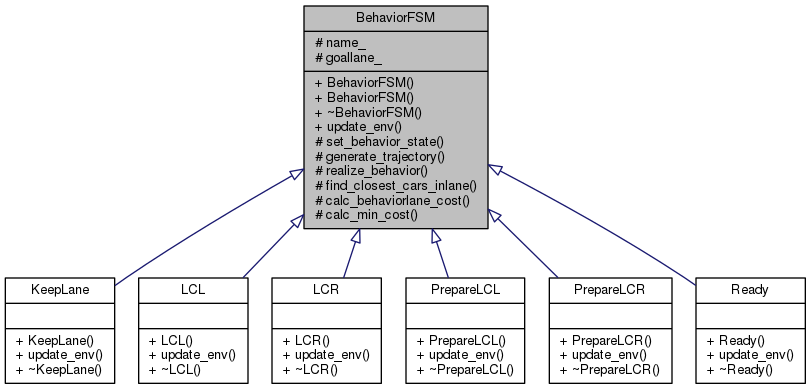
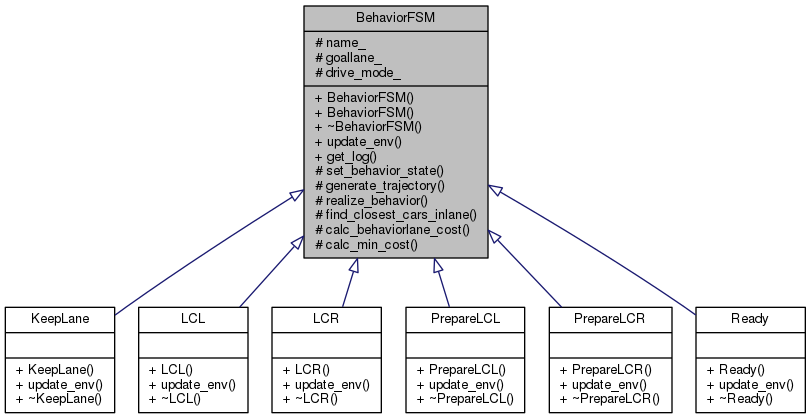
add logger; change the getXY funct; update image for README

diff --git a/src/sdvehicle.cpp b/src/sdvehicle.cpp
@@ -216,27 +216,67 @@ void SDVehicle::set_map_waypoints_dy(const vector<double>& mwaypoints_dy)
 // Transform from Frenet s,d coordinates to Cartesian x,y
 vector<double> SDVehicle::getXY(double s, double d)
 {
-  int prev_wp = -1;
+//  int prev_wp = -1;
+//
+//  while(s > map_wp_s[prev_wp + 1] && (prev_wp < (int)(map_wp_s.size() - 1))) {
+//    prev_wp++;
+//  }
+//
+//  int wp2 = (prev_wp + 1) % map_wp_x.size();
+//
+//  double heading = atan2((map_wp_y[wp2] - map_wp_y[prev_wp]), (map_wp_x[wp2] - map_wp_x[prev_wp]));
+//  // the x,y,s along the segment
+//  double seg_s = (s - map_wp_s[prev_wp]);
+//
+//  double seg_x = map_wp_x[prev_wp] + seg_s * cos(heading);
+//  double seg_y = map_wp_y[prev_wp] + seg_s * sin(heading);
+//
+//  double perp_heading = heading - M_PI / 2;
+//
+//  double x = seg_x + d * cos(perp_heading);
+//  double y = seg_y + d * sin(perp_heading);
+//
+//  return { x, y };
+  
+  //implementing the new getXY since the provided function doesn't work well
 
-  while(s > map_wp_s[prev_wp + 1] && (prev_wp < (int)(map_wp_s.size() - 1))) {
-    prev_wp++;
+//find the index of the s in the map(0 to 6945.554)
+  vector<double> s_ranges, x_ranges, y_ranges;
+  size_t m_size = map_wp_s.size();
+  s= fmod(MAX_S_MAP + s, MAX_S_MAP);
+  
+  const vector<double>::iterator &upper_iter = std::upper_bound(map_wp_s.begin(), map_wp_s.end(), s);
+  int map_s_index = upper_iter - map_wp_s.begin() ;
+  int prev_wp = map_s_index -1;
+  
+  //get the range between +-3 from the
+  for(int i = -3; i < 5; i++) {
+    
+    size_t wp = (prev_wp + i + m_size) % m_size;
+    double wp_s = map_wp_s[wp];
+    
+    x_ranges.push_back(map_wp_x[wp] + d * map_wp_dx[wp]);
+    y_ranges.push_back(map_wp_y[wp] + d * map_wp_dy[wp]);
+    
+    //Dealing with the circle circuit
+    if(prev_wp + i < 0) {
+      wp_s -= MAX_S_MAP;
+    } else if(prev_wp + i >= m_size) {
+      wp_s += MAX_S_MAP;
+    }
+    s_ranges.push_back(wp_s);
   }
 
-  int wp2 = (prev_wp + 1) % map_wp_x.size();
+  // Integrate spline to get the way curve by fitting s to x & y
+  tk::spline spline_x, spline_y;
+  double x,y;
+  spline_x.set_points(s_ranges, x_ranges);
+  spline_y.set_points(s_ranges, y_ranges);
 
-  double heading = atan2((map_wp_y[wp2] - map_wp_y[prev_wp]), (map_wp_x[wp2] - map_wp_x[prev_wp]));
-  // the x,y,s along the segment
-  double seg_s = (s - map_wp_s[prev_wp]);
+  x = spline_x(s);
+  y = spline_y(s);
 
-  double seg_x = map_wp_x[prev_wp] + seg_s * cos(heading);
-  double seg_y = map_wp_y[prev_wp] + seg_s * sin(heading);
-
-  double perp_heading = heading - M_PI / 2;
-
-  double x = seg_x + d * cos(perp_heading);
-  double y = seg_y + d * sin(perp_heading);
-
-  return { x, y };
+  return {x, y};
 }
 
 void SDVehicle::drive(double goal_v, double goal_d)
@@ -254,9 +294,9 @@ void SDVehicle::drive(double goal_v, double goal_d)
   //  }
 
   // add the next trajectory points sparsely and fill the points between with spline
-  vector<double> next_wp0 = this->getXY(this->s + 30, goal_d);
-  vector<double> next_wp1 = this->getXY(this->s + 60, goal_d);
-  vector<double> next_wp2 = this->getXY(this->s + 90, goal_d);
+  vector<double> next_wp0 = this->getXY(this->s + 40, goal_d);
+  vector<double> next_wp1 = this->getXY(this->s + 70, goal_d);
+  vector<double> next_wp2 = this->getXY(this->s + 80, goal_d);
 
   this->global_traj_x_.push_back(next_wp0[0]);
   this->global_traj_x_.push_back(next_wp1[0]);
@@ -297,7 +337,7 @@ void SDVehicle::drive(double goal_v, double goal_d)
   
   if(local_traj_x[2]< 0.)
   {
-    printf("## ERROR value of next wp! %.2f", next_wp0[0]);
+    printf("## ERROR value of next wp! %.2f", local_traj_x[2]);
     for(int i = 0; i < this->global_traj_x_.size(); i++) {
     double shift_x = this->global_traj_x_[i] - this->x;
     double shift_y = this->global_traj_y_[i] - this->y;
@@ -314,7 +354,7 @@ void SDVehicle::drive(double goal_v, double goal_d)
 
   
   // Filling the space between the waypoint in order to get the desire velocity
-  double target_x = 30;
+  double target_x = local_traj_x[2];
   double target_y = sp(target_x);
   double target_dist = sqrt(pow(target_x, 2) + pow(target_y, 2));
 
@@ -356,4 +396,12 @@ void SDVehicle::adjust_speed(double dv)
   if(this->ref_v_ > MAX_VEL) {
     this->ref_v_ = MAX_VEL;
   }
+}
+
+string SDVehicle::get_log()
+{
+  char log[NAME_MAX];
+  snprintf(log, sizeof(log), "%.2f;%.2f;%.2f;%.2f;%.2f;%.2f;%.2f;%.2f;%.2f;%.2f;%s\n", sim_delay,s,d,d_dot,yaw,d_yaw,v_ms,ref_v_,a,jerk,behaviorfsm_->get_log().c_str());
+
+  return string(log);
 }

diff --git a/src/behaviorfsm.cpp b/src/behaviorfsm.cpp
@@ -11,7 +11,7 @@ using namespace Helper;
 const int horizon_t = 1;
 const int PRED_TIME = 1;
 
-const int CL_MAX_VEL = 12;  // m/s
+const int CL_MAX_VEL = 17;  // m/s
 const int MAX_JERK = 10;    // in m/s3
 const int MAX_ACC = 9;      // in m/s2
 const int DIST_BUFFER = 35; // in m
@@ -22,7 +22,7 @@ const int STEPS = 50;
 double max_dist = MAX_VEL * PRED_TIME;
 const double NORMAL_dV = 0.12;
 const double CAUTIOUS_dV = -0.1;
-const double ALERT_dV = -0.15;
+const double ALERT_dV = -0.14;
 // Cost value priority weight
 const int COLL_W = 4;
 const int DIST_W = 3;
@@ -95,7 +95,7 @@ double BehaviorFSM::calc_behaviorlane_cost(SDVehicle& sdcar, int lane, vector<de
     vector<double> egoXY = sdcar.getXY(sdcar.s, sdcar.d);
     vector<double> frontXY = sdcar.getXY(frontcar[cur_idx].s, frontcar[cur_idx].d);
     dist = calc_distance(egoXY[0], egoXY[1], frontXY[0], frontXY[1]);
-    distance_cost = 10 * exp(-dist / 10);
+    distance_cost = 10 * exp(-dist / 20);
 
     // check if the lane is the same as the ego's lane
     if(get_lane(sdcar.d) == lane) {
@@ -400,23 +400,13 @@ void KeepLane::update_env(SDVehicle& sdcar, map<int, deque<Vehicle> > cars_traje
 
   MinCost mcost;
   mcost = calc_min_cost(sdcar, cars_trajectories, currlane);
-
-  if((fabs(sdcar.sim_delay) < 0.08) && (this->drive_mode_ == NORMAL)) {
-    printf("sdcar v: %.2f \n", sdcar.v_ms);
-    this->drive_mode_ = NO_ACC;
-  }
-  if(fabs(sdcar.d_yaw) > 0.02 && sdcar.v_ms > 4 && (this->drive_mode_ == NORMAL)) { //~10 deg
-    printf("\n!!!!! sharp curve -> reduce speed!");
-    this->drive_mode_ = CAUTIOUS;
-  }
   // 1. check the possible lane
   switch(currlane) {
   //------------------------
   // Lane 0
   //------------------------
   case LANE0:
-    cout << "Lane 0" << endl;
-
+    printf("Drive mode: ");
     switch(this->drive_mode_) {
     case NORMAL:
       if(sdcar.v_ms < MAX_VEL) {
@@ -485,6 +475,7 @@ void KeepLane::update_env(SDVehicle& sdcar, map<int, deque<Vehicle> > cars_traje
     }
     break;
   case LANE2:
+    printf("Drive mode: ");
     switch(this->drive_mode_) {
     case NORMAL:
       if(sdcar.v_ms < MAX_VEL) {
@@ -531,7 +522,6 @@ void PrepareLCL::update_env(SDVehicle& sdcar, map<int, deque<Vehicle> > cars_tra
   mcost = calc_min_cost(sdcar, cars_trajectories, currlane);
   switch(currlane) {
   case LANE1: // prepare 1 -> 0
-
     switch(this->drive_mode_) {
     case NORMAL:
       if(sdcar.v_ms > CL_MAX_VEL) {
@@ -811,4 +801,11 @@ void LCR::update_env(SDVehicle& sdcar, map<int, deque<Vehicle> > cars_trajectori
     sdcar.drive(sdcar.ref_v_, 10);
   } break;
   }
+}
+
+string BehaviorFSM::get_log()
+{
+  char log[NAME_MAX];
+  snprintf(log, sizeof(log),"%s;%d", name_.c_str(),drive_mode_);
+  return string(log);
 }

diff --git a/src/main.cpp b/src/main.cpp
@@ -224,6 +224,12 @@ int main() {
   	map_waypoints_dx.push_back(d_x);
   	map_waypoints_dy.push_back(d_y);
   }
+  ofstream log_file( "../data/behavior.log", ios_base::out);
+  string log_title = "dt;s;d;d_dot;yaw;d_yaw;v_ms;ref_v_;a;jerk;FSM;mode;\n";
+  log_file << log_title;
+//  csvfile csv("../data/behavior.log"); // throws exceptions!
+//  csv << dt << x;y;s;d;yaw;dyaw;v;a;jerk;input_v<< endrow;
+//  
   SDVehicle sdcar;
   Prediction prediction;
   sdcar.set_map_waypoints_x(map_waypoints_x);
@@ -363,8 +369,8 @@ int main() {
 
           msgJson["next_x"] = sdcar.next_x_vals;
           msgJson["next_y"] = sdcar.next_y_vals;
-
-
+        
+          log_file << sdcar.get_log();
 
           auto msg = "42[\"control\"," + msgJson.dump() + "]";
 

diff --git a/src/behaviorfsm.h b/src/behaviorfsm.h
@@ -49,6 +49,8 @@ class BehaviorFSM
   */
   virtual void update_env(SDVehicle& sdcar, map<int, deque<Vehicle> > trajectory) = 0;
 
+  string get_log();
+
   protected:
 
   /*
@@ -81,6 +83,8 @@ class BehaviorFSM
   double calc_behaviorlane_cost(SDVehicle& sdcar, int lane, vector<deque<Vehicle> >& inlane_veh_trajectories);
 
   MinCost calc_min_cost(SDVehicle& sdcar,map<int, deque<Vehicle> > predictions, int curr_lane);
+
+  
 
   // Name of the FSM
   string name_;

diff --git a/src/sdvehicle.h b/src/sdvehicle.h
@@ -64,6 +64,7 @@ class SDVehicle:public Vehicle
 
   void adjust_speed(double dv);
 
+  string get_log();
   // Copy the map waypoints
   void set_map_waypoints_x(const vector<double> &mwaypoints_x);
   void set_map_waypoints_y(const vector<double> &mwaypoints_y);

diff --git a/README.md b/README.md
@@ -37,7 +37,9 @@ For the sensor fusion data, a list of all other car's attributes on the same sid
 
 There will be some latency between the simulator running and the path planner returning a path, with optimized code usually its not very long maybe just 1-3 time steps. During this delay the simulator will continue using points that it was last given, because of this its a good idea to store the last points you have used so you can have a smooth transition. previous_path_x, and previous_path_y can be helpful for this transition since they show the last points given to the simulator controller with the processed points already removed. You would either return a path that extends this previous path or make sure to create a new path that has a smooth transition with this last path.
 
-The car uses a perfect controller and will visit every (x,y) point it recieves in the list every .02 seconds. The units for the (x,y) points are in meters and the spacing of the points determines the speed of the car. The vector going from a point to the next point in the list dictates the angle of the car. Acceleration both in the tangential and normal directions is measured along with the jerk, the rate of change of total Acceleration. The (x,y) point paths that the planner recieves should not have a total acceleration that goes over 10 m/s^2, also the jerk should not go over 50 m/s^3. (NOTE: As this is BETA, these requirements might change. Also currently jerk is over a .02 second interval, it would probably be better to average total acceleration over 1 second and measure jerk from that.
+The car uses a perfect controller and will visit every (x,y) point it recieves in the list every .02 seconds. The units for the (x,y) points are in meters and the spacing of the points determines the speed of the car. The vector going from a point to the next point in the list dictates the angle of the car. Acceleration both in the tangential and normal directions is measured along with the jerk, the rate of change of total Acceleration. 
+
+The (x,y) point paths that the planner recieves should not have a total acceleration that goes over 10 m/s^2, also the jerk should not go over 50 m/s^3. (NOTE: As this is BETA, these requirements might change. Also currently jerk is over a .02 second interval, it would probably be better to average total acceleration over 1 second and measure jerk from that.
 
 The map data of the highway can be found in data/highway_map.txt
 Each waypoint in the list contains  [x,y,s,dx,dy] values. x and y are the waypoint's map coordinate position, the s value is the distance along the road to get to that waypoint in meters, the dx and dy values define the unit normal vector pointing outward of the highway loop.
@@ -72,16 +74,16 @@ In my opinion, the main issue of this project is to generate paths using a colle
 
 To create a smooth trajectory, the instructor has introduced a library to create a spline: [http://kluge.in-chemnitz.de/opensource/spline/](http://kluge.in-chemnitz.de/opensource/spline/), the spline function is in a single hearder file is really easy to use.
 
-The car uses a perfect controller and will visit every (x,y) point it recieves in the list every .02 seconds. The units for the (x,y) points are in meters and the spacing of the points determines the speed of the car. The vector going from a point to the next point in the list dictates the angle of the car. Acceleration both in the tangential and normal directions is measured along with the jerk, the rate of change of total Acceleration. The (x,y) point paths that the planner recieves should not have a total acceleration that goes over 10 m/s^2, also the jerk should not go over 50 m/s^3. (NOTE: As this is BETA, these requirements might change. Also currently jerk is over a .02 second interval, it would probably be better to average total acceleration over 1 second and measure jerk from that.
-
+I've done several experiments to apply the jerk minimizing trajectory (JMT). However, since I cannot control the trajectory between a start and goal points, I avoid to use JMT. The below figure shows different trajectories by varying the variable `T`
 ![alt text][image1]
 
+As shown above, the acceleration and the velocity can oscilate very high if the algorithm apply a wrong `T` value.
 #### Behavior Planning
 
 For the behavior planning, I implement 6 states in my FSM, as stated in the behavior planning lesson. The illustration of this FSM and its transitions is showed bellow:
 ![alt text][image2]
 
-the below figure shows the class diagram of the BehaviorFSM class.
+The below figure shows the class diagram of the BehaviorFSM class.
 ![alt text][image3]
 
 The transition between the states is trigger by a cost function. The cost function decides in which direction the self-driving car is going to drive next. The total cost function is defined as a sum of lane change cost, distance cost and time-to-collision cost with its weight:
@@ -92,13 +94,18 @@ Based on the detected cars and the available lanes in the simulator, the algorit
 
 In order to calculate the distance cost, first the algorithm converts the Frenet to Cartesian coordinates. Then it calculates the Euclidean distance from the both (x,y) points. Finally the distance cost is defined as:
 
-    distance_cost = 10*exp(-dist/10);
+    distance_cost = 10*exp(-dist/20);
 
 The below figure shows the graph of the distance cost.
 ![alt text][image4]
 
-The time-to-collision cost uses the same formula as the distance cost. The time when the self-driving car and another car collides is calculated by dividing the distance by the velocity of the self-driving car.
+The time-to-collision cost uses this formula:
 
+    time_to_collision_cost = 10 * exp(-coll_t/0.4);
+
+ The time when the self-driving car and another car collides is calculated by dividing the distance by the velocity of the self-driving car. For this cost function the algorithm concerns only the behind cars.
+
+![alt text][image5]
 
 ## Basic Build Instructions
 
@@ -155,5 +162,6 @@ Please (do your best to) stick to [Google's C++ style guide](https://google.gith
 [image2]: ./img/behavior_fsm.jpg
 [image3]: ./img/classBehaviorFSM.png
 [image4]: ./img/distance_cost_func.png
+[image5]: ./img/timecollision_cost_func.png
 
 
